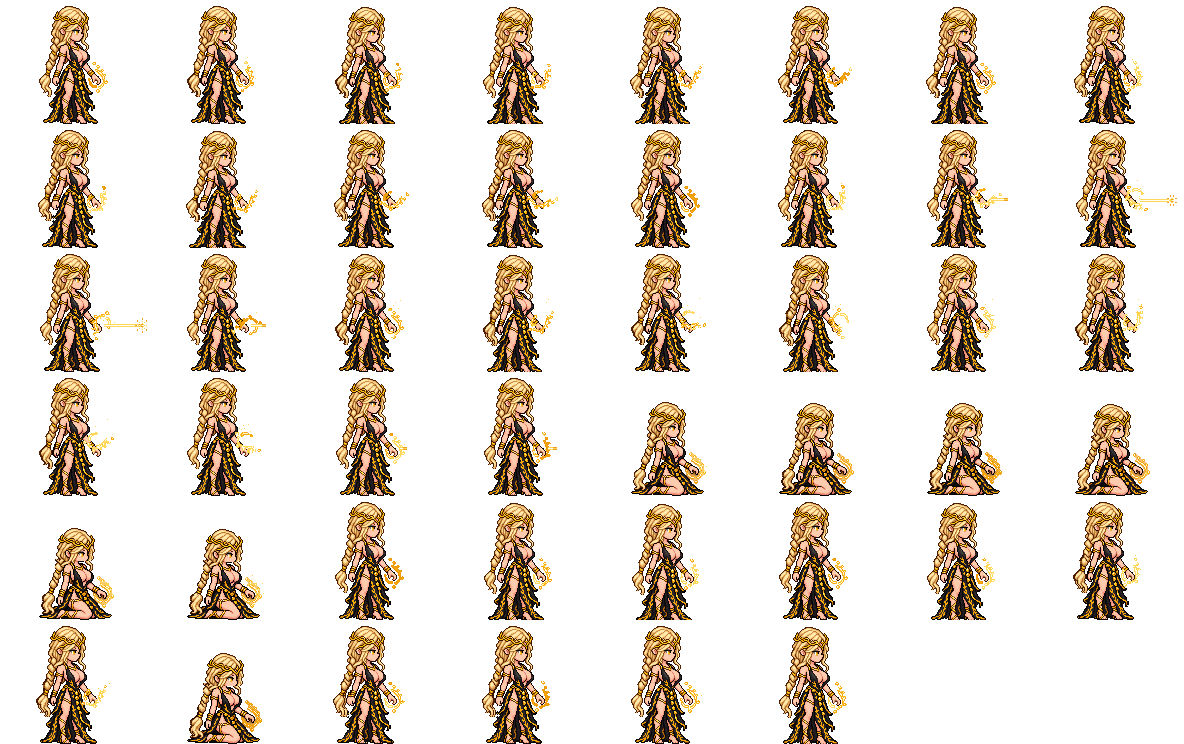
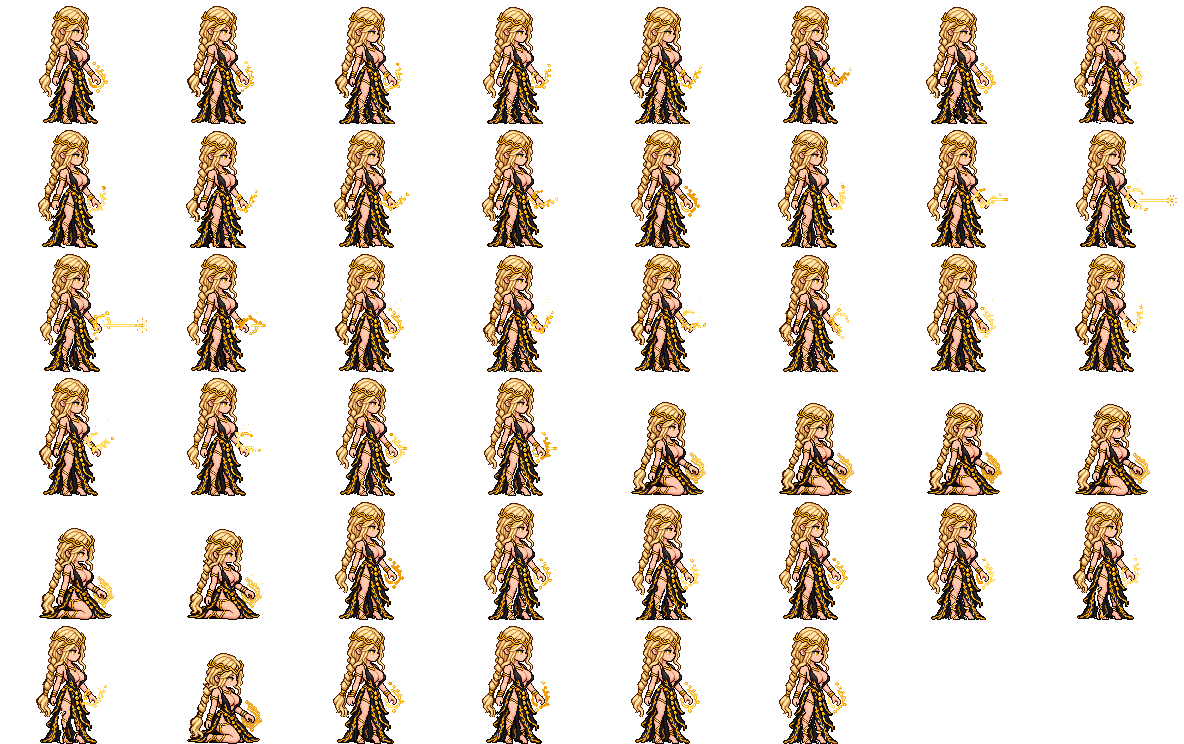
Solenne walks like Aurelion; the tower door sits flush on its face
- Solenne's legs (the one bare through the gown's slit, the foot under the
  hem) stride and lift in turn as Aurelion's do, behind the gown, instead of
  the whole hem shearing sideways with her feet; only the panels sway now.
  A one-pixel bust bounce follows her step. Previews regenerated.
- The island towers are turned a tenth of a turn so a flat face, not a corner,
  looks at the viewer: the door and window sit flush on it instead of the
  brick edge cutting through them.

diff --git a/client/js/heroes/queen.js b/client/js/heroes/queen.js
@@ -5,7 +5,7 @@
 // Source art: assets/hero/queen.json (71x120, from queen-stand.webp) and queen-kneel.json (77x96,
 // from queen-kneel.webp).
 
-import { Img, region, blit, rotatable, drawRotated, prepareStill, composeStill } from './core.js';
+import { Img, NONE, region, blit, rotatable, drawRotated, prepareStill, composeStill } from './core.js';
 
 const FRAME = { w: 148, h: 124 };
 const MID = 36; // between the feet
@@ -19,7 +19,15 @@ const MAGIC_BOX = { x0: 49, y0: 55, y1: 90 }; // the ring lies in here, around t
 const KNEEL_MAGIC_BOX = { x0: 56, y0: 48, y1: 84 };
 const RING = { x: 60.5, y: 72 }; // it turns about this point
 const BRAID = { y0: 40, y1: 92 }; // the braid hangs down the left and sways below y0
-const HEM = 100; // the gown's hem sways below this row
+const HEM = 100; // the gown's panels sway below this row
+// Her legs walk as the knight's do (each sheared from its top to the foot, the foot lifted): the
+// one bare through the gown's slit (behind) and the other, below the hem (in front). Each is its
+// skin and sandal straps, with their dark outline.
+const BACK_LEG = { x0: 21, x1: 34, y0: 86 };
+const FRONT_LEG = { x0: 36, x1: 49, y0: 94 };
+const SKIN = 'eilpsuv';
+const STRAPS = 'fkmqtxORaUZ';
+const BUST = { x0: 35, x1: 49, y0: 45, y1: 53 }; // bounces a pixel, a beat behind her step
 
 // The ring is gold among gold (crown, bracelets, the gown's embroidery). Its pixels are the
 // gold-coloured ones in its box that touch nothing but gold or air; those get twin colours (one
@@ -59,13 +67,38 @@ function prepare(art, more = {}) {
     still = prepareStill(k, { ground: 94, mid: 36, neck: 34, waist: 58, cape: { x1: 18, y0: 45 }, float: kr.isRing });
   }
   const code = (ch) => twinOf(art.code(ch));
+  // a leg: its skin, the outline right beside it, and the sandal straps over it (up to two
+  // pixels from the skin)
+  const skin = ids(SKIN);
+  const straps = ids(STRAPS);
+  const nearSkin = (x, y, r) => {
+    for (let b = -r; b <= r; b++) for (let a = -r; a <= r; a++) if (skin.has(src.get(x + a, y + b))) return true;
+    return false;
+  };
+  const legOf = (box) => (x, y) => {
+    if (x < box.x0 || x > box.x1 || y < box.y0 || y > GROUND) return false;
+    const v = src.get(x, y);
+    if (v === NONE) return false;
+    return skin.has(v) || nearSkin(x, y, straps.has(v) ? 2 : 1);
+  };
+  const isBack = legOf(BACK_LEG);
+  const isFront = legOf(FRONT_LEG);
+  const isLeg = (x, y) => isBack(x, y) || isFront(x, y);
+  const body = region(src, (x, y) => !isBraid(x, y) && !isRing(x, y) && !isLeg(x, y));
   return {
     still,
     parts: {
       ring: rotatable(ring),
       braid: region(src, (x, y) => isBraid(x, y) && !isRing(x, y)),
-      body: region(src, (x, y) => !isBraid(x, y) && !isRing(x, y)),
+      body,
+      backLeg: region(src, isBack),
+      frontLeg: region(src, isFront),
+      bust: region(body, (x, y) => x >= BUST.x0 && x <= BUST.x1 && y >= BUST.y0 && y <= BUST.y1),
+      // where the legs were: the gown's dark inside shows when they step away (not at the very
+      // bottom, where it's the floor)
+      gap: region(src, (x, y) => isLeg(x, y) && y < GROUND - 4),
     },
+    gapColor: art.code('A'),
     colors: { white, gold, amber },
     // only the ring (and the light it sheds) glows; it shimmers and flares but never goes out
     energy: {
@@ -86,6 +119,21 @@ function prepare(art, more = {}) {
   };
 }
 
+// A leg from `top` down to the ground: sheared forward or back by `stride` (none at the top, all of
+// it at the foot), the foot raised by `lift`, or left to `dangle`.
+function drawLeg(dst, leg, top, { stride = 0, lift = 0, dangle = 0 }, dx, dy) {
+  const span = GROUND - top;
+  for (let y = top; y <= GROUND; y++) {
+    const t = (y - top) / span;
+    const shift = Math.round(stride * t + dangle * t * t);
+    const up = Math.round(lift * t);
+    for (let x = 0; x < leg.w; x++) {
+      const v = leg.get(x, y);
+      if (v !== NONE) dst.set(x + dx + shift, y + dy - up, v);
+    }
+  }
+}
+
 function compose(ctx, p) {
   if (p.still) return composeStill(ctx.still, p, FRAME);
   const { parts, colors } = ctx;
@@ -101,13 +149,22 @@ function compose(ctx, p) {
     glow.push(fy * FRAME.w + fx);
   };
 
-  // the braid swings, the gown's hem sways (each drawn as is and sheared, so nothing opens a gap)
+  // the braid swings (drawn as is and sheared, so nothing opens a gap)
   const sway = p.sway || 0;
   blit(f, parts.braid, ux, uy);
   if (sway) blit(f, parts.braid, ux, uy, (y) => Math.round((sway * Math.max(0, y - BRAID.y0)) / (BRAID.y1 - BRAID.y0)));
+  // the legs stay planted and step under the gown: the dark inside where they were, the legs
+  // where they are, then the gown over them, its panels swaying
+  const g = parts.gap;
+  for (let y = 0; y < g.h; y++) for (let x = 0; x < g.w; x++) if (g.c[y * g.w + x] !== NONE) f.set(x + OX, y + OY, ctx.gapColor);
+  const legs = p.legs || {};
+  drawLeg(f, parts.backLeg, BACK_LEG.y0, legs.back || {}, OX, OY);
+  drawLeg(f, parts.frontLeg, FRONT_LEG.y0, legs.front || {}, OX, OY);
   const hem = p.hem || 0;
   blit(f, parts.body, ux, uy);
   if (hem) blit(f, parts.body, ux, uy, (y) => (y < HEM ? 0 : Math.round((hem * (y - HEM)) / (GROUND - HEM))));
+  // the bust, a pixel behind her step
+  if (p.bounce) blit(f, parts.bust, ux, uy + p.bounce);
 
   // the ring of light turns about the hand (and rises from it)
   const rise = p.rise || 0;
@@ -157,11 +214,18 @@ function anim(name, list) {
 }
 const seq = (n, fn) => Array.from({ length: n }, (_, i) => fn(i));
 
-anim('idle', seq(6, (i) => ({ bob: [0, 0, 1, 1, 1, 0][i], sway: [0, 1, 1, 0, -1, -1][i], hem: [0, 0, 1, 1, 0, 0][i], spin: i * 15, light: 1 })));
+const leg = (stride, lift = 0) => ({ stride, lift });
+anim('idle', seq(6, (i) => ({ bob: [0, 0, 1, 1, 1, 0][i], sway: [0, 1, 1, 0, -1, -1][i], hem: [0, 0, 1, 1, 0, 0][i], bounce: [0, 0, 0, 1, 0, 0][i], spin: i * 15, light: 1 })));
+// walking as the knight walks: the legs stride and lift in turn, the gown's panels following
 anim('walk', seq(6, (i) => ({
   bob: [1, 0, 0, 1, 0, 0][i],
   sway: [-1, -2, -2, -1, -2, -2][i],
-  hem: [2, 1, -1, -2, -1, 1][i],
+  hem: [1, 0, -1, -1, 0, 1][i],
+  bounce: [-1, 1, 0, -1, 1, 0][i],
+  legs: {
+    front: leg([3, 1, -1, -3, -1, 1][i], [0, 0, 0, 0, 2, 2][i]),
+    back: leg([-3, -1, 1, 3, 1, -1][i], [0, 2, 2, 0, 0, 0][i]),
+  },
   spin: i * 20,
   light: 1,
 })));
@@ -173,6 +237,8 @@ anim('strike', seq(6, (i) => ({
   burst: [0, 0, 0, 1, 2, 0][i],
   lean: [0, -1, 0, 1, 1, 0][i],
   hem: [0, -1, 0, 1, 1, 0][i],
+  bounce: [0, 0, 1, -1, 0, 0][i],
+  legs: { front: leg([0, 0, -1, 2, 3, 2][i]), back: leg([0, 0, 1, -1, -2, -1][i]) },
   light: [1, 2, 2, 2, 2, 1][i],
 })));
 anim('cast', seq(4, (i) => ({ spin: i * 60, rise: [2, 3, 3, 2][i], motes: 5, phase: i, bob: i % 2, sway: [1, 2, 1, 2][i], light: 2 })));
@@ -184,9 +250,9 @@ anim('rest', seq(2, (i) => ({ still: true, bob: i, head: [1, 1], sway: 1 - i, li
 anim('pray', seq(2, (i) => ({ still: true, bob: i, head: [1, 2], sway: 1, float: 1 + i, light: 2 })));
 anim('bow', seq(3, (i) => ({ lean: Math.min(1, i), bob: [0, 1, 2][i], hem: [0, 1, 1][i], spin: i * 10, light: 0 })));
 anim('study', seq(2, (i) => ({ bob: i, spin: i * 10, light: 0 })));
-anim('stagger', seq(2, (i) => ({ lean: -2 - i, spin: 30 + i * 30, sway: 2, hem: 2, light: 2 })));
+anim('stagger', seq(2, (i) => ({ lean: -2 - i, spin: 30 + i * 30, sway: 2, hem: 2, bounce: i ? 1 : -1, legs: { front: leg(-1), back: leg(1) }, light: 2 })));
 anim('collapse', [{ still: true, head: [2, 3], sway: 2, light: 0 }]);
-anim('lifted', seq(2, (i) => ({ sway: -3 + i, hem: -2 + i, spin: i * 20, light: 1 })));
+anim('lifted', seq(2, (i) => ({ sway: -3 + i, hem: -2 + i, spin: i * 20, legs: { front: { dangle: -2 - i }, back: { dangle: -3 } }, light: 1 })));
 anim('talk', seq(2, (i) => ({ bob: i, spin: i * 12, light: 1 })));
 
 const G = groups;

diff --git a/client/js/region.js b/client/js/region.js
@@ -505,25 +505,30 @@ export class Region extends Builder {
   buildTower() {
     const [tx, tz] = STATIONS.tower.pos;
     const R = 1.9, H = 10;
-    const body = new THREE.Mesh(scaleCylUV(new THREE.CylinderGeometry(R, R * 1.08, H, 10), R, H, BRICK_TILE), this.mat.stone);
+    const SIDES = 10;
+    const TURN = Math.PI / SIDES; // a flat face, not a corner, toward the viewer (the door sits on it)
+    const body = new THREE.Mesh(scaleCylUV(new THREE.CylinderGeometry(R, R * 1.08, H, SIDES), R, H, BRICK_TILE), this.mat.stone);
     body.position.set(tx, H / 2, tz);
+    body.rotation.y = TURN;
     body.castShadow = true;
     body.receiveShadow = true;
-    const ledge = new THREE.Mesh(new THREE.CylinderGeometry(R + 0.35, R + 0.35, 0.4, 10), this.mat.stoneMoss);
+    const ledge = new THREE.Mesh(new THREE.CylinderGeometry(R + 0.35, R + 0.35, 0.4, SIDES), this.mat.stoneMoss);
     ledge.position.set(tx, H, tz);
+    ledge.rotation.y = TURN;
     ledge.castShadow = true;
-    const roof = new THREE.Mesh(new THREE.ConeGeometry(R + 0.6, 4.0, 10), this.biomeKey === 'frost' ? this.mat.snow : this.mat.slate);
+    const roof = new THREE.Mesh(new THREE.ConeGeometry(R + 0.6, 4.0, SIDES), this.biomeKey === 'frost' ? this.mat.snow : this.mat.slate);
     roof.position.set(tx, H + 2.2, tz);
+    roof.rotation.y = TURN;
     roof.castShadow = true;
     this.add(body, ledge, roof);
     this.blockCircle(tx, tz, R + 0.4);
+    // the front face's distance from the axis at height y (the tower narrows as it rises)
+    const face = (y) => (R * 1.08 - (R * 0.08 * y) / H) * Math.cos(TURN);
     const door = new THREE.Mesh(new THREE.PlaneGeometry(1.0, 1.8), this.world.mat.doorway);
-    door.position.set(tx - 0.3, 0.9, tz + R + 0.03);
-    door.rotation.y = -0.15;
+    door.position.set(tx, 0.9, tz + face(0.9) + 0.03);
     this.towerWindowMat = new THREE.MeshBasicMaterial({ color: new THREE.Color(1.2, 0.7, 0.3) });
     const win = new THREE.Mesh(new THREE.PlaneGeometry(0.6, 1.0), this.towerWindowMat);
-    win.position.set(tx - 0.3, H - 2.0, tz + R + 0.03);
-    win.rotation.y = -0.15;
+    win.position.set(tx, H - 2.0, tz + face(H - 2.0) + 0.03);
     this.add(door, win);
     for (let i = 0; i < 3; i++) {
       const tex = this.world.tex.raven.clone();

diff --git a/README.md b/README.md
@@ -112,7 +112,8 @@ other heroes live at Roundtable Hold and each takes up one session at a time (se
   - **Solenne, the Eternal Queen** (by day) — `queen.json` (+ `queen-kneel.json`). Rigged in
     `client/js/heroes/queen.js`: a ring of holy light turns about one hand, rises and sheds motes
     of light, and lances out as a beam that bursts at its end. Only the ring glows; the crown,
-    bracelets and embroidery stay gold.
+    bracelets and embroidery stay gold. She walks as Aurelion does, her legs striding and lifting
+    under the gown (only its panels sway).
   - **The change:** halfway through dusk and dawn, golden light gathers and the drawing of the
     change itself (`champion-to-queen.json` at dawn, `queen-to-champion.json` at dusk;
     `client/js/heroes/twofold.js`) holds for a moment. Then the other form bursts out under its
